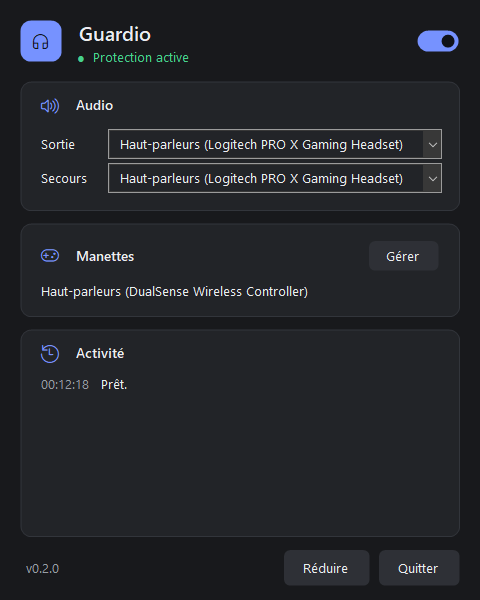
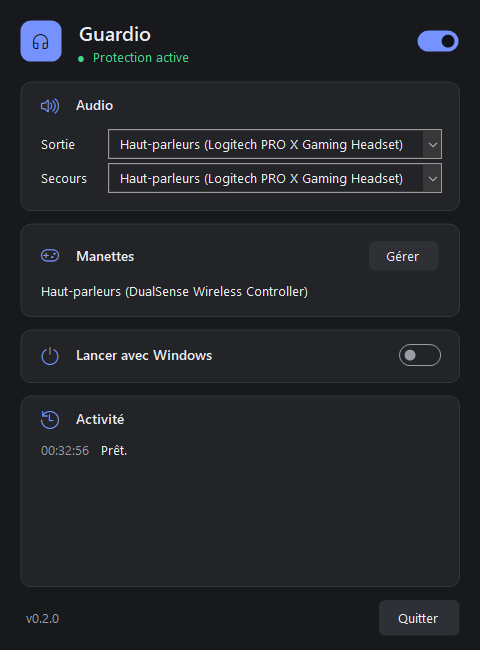
feat: start with Windows and keep running when the window is closed
- New "Lancer avec Windows" switch: a per-user Run entry starts Guardio
  hidden in the notification area (--tray). The entry follows the exe if
  the folder is moved.
- The close button now hides Guardio to the notification area (with a
  one-time hint); "Quitter" and the tray menu really exit. The redundant
  "Réduire" button is gone.
- The guard starts with the window handle so it also runs when hidden.
- Docs and screenshots updated.

diff --git a/src/Guardio/MainForm.cs b/src/Guardio/MainForm.cs
@@ -14,21 +14,22 @@ public sealed class MainForm : Form
     private readonly ActivityList journal = new();
     private readonly NotifyIcon tray = new() { Text = "Guardio", Visible = true };
     private readonly ToolStripMenuItem trayEnable = new("Protection active") { Checked = true, CheckOnClick = true };
+    private readonly ToggleSwitch autoStart = new() { Anchor = AnchorStyles.Right, AccessibleName = "Lancer avec Windows" };
     private readonly ToolTip tips = new();
     private readonly string dataDir;
     private GuardService? guard;
-    private bool refreshing;
+    private bool refreshing, startHidden, quitting, trayHintShown;
     private string shownSignature = "";
 
-    public MainForm(string dataDir)
+    public MainForm(string dataDir, bool startHidden = false)
     {
-        this.dataDir = dataDir;
+        this.dataDir = dataDir; this.startHidden = startHidden;
         SuspendLayout();
         AutoScaleDimensions = new(96F, 96F); AutoScaleMode = AutoScaleMode.Dpi;
         Text = "Guardio"; Font = new("Segoe UI", 9.75f);
         Icon = Icon.ExtractAssociatedIcon(Environment.ProcessPath!) ?? SystemIcons.Application;
         tray.Icon = Icon;
-        ClientSize = new(480, 600); MinimumSize = new(440, 540);
+        ClientSize = new(480, 650); MinimumSize = new(440, 600);
         StartPosition = FormStartPosition.CenterScreen;
 
         var root = new TableLayoutPanel { Dock = DockStyle.Fill, Padding = new(20, 18, 20, 14), ColumnCount = 1 };
@@ -36,6 +37,7 @@ public sealed class MainForm : Form
         root.Controls.Add(Header());
         root.Controls.Add(AudioCard());
         root.Controls.Add(ControllersCard());
+        root.Controls.Add(StartupCard());
         var activity = ActivityCard();
         root.Controls.Add(activity);
         root.Controls.Add(Footer());
@@ -53,13 +55,37 @@ public sealed class MainForm : Form
         menu.Items.Add(trayEnable);
         trayEnable.CheckedChanged += (_, _) => { if (!refreshing) enabled.Checked = trayEnable.Checked; };
         menu.Items.Add(new ToolStripSeparator());
-        menu.Items.Add("Quitter", null, (_, _) => Close()); tray.ContextMenuStrip = menu;
+        menu.Items.Add("Quitter", null, (_, _) => Quit()); tray.ContextMenuStrip = menu;
         Theme.Changed += OnThemeChanged;
-        HandleCreated += (_, _) => Theme.Apply(this);
-        Shown += (_, _) => StartGuard();
+        // The guard starts with the window handle, so it also runs when started hidden.
+        HandleCreated += (_, _) => { Theme.Apply(this); if (guard is null) StartGuard(); };
+        FormClosing += OnClosing;
         FormClosed += (_, _) => { Theme.Changed -= OnThemeChanged; tray.Visible = false; tray.Dispose(); guard?.Dispose(); };
         Resize += (_, _) => { if (WindowState == FormWindowState.Minimized) Hide(); };
     }
+
+    protected override void SetVisibleCore(bool value)
+    {
+        // Started with Windows: stay in the notification area until opened.
+        if (startHidden && value)
+        {
+            startHidden = false; value = false;
+            if (!IsHandleCreated) CreateHandle();
+        }
+        base.SetVisibleCore(value);
+    }
+
+    private void OnClosing(object? sender, FormClosingEventArgs e)
+    {
+        // The close button keeps protection running; "Quitter" really exits.
+        if (quitting || e.CloseReason != CloseReason.UserClosing) return;
+        e.Cancel = true; Hide();
+        if (trayHintShown) return;
+        trayHintShown = true;
+        tray.ShowBalloonTip(4000, "Guardio reste actif", "Clic droit sur l’icône puis Quitter pour l’arrêter.", ToolTipIcon.None);
+    }
+
+    private void Quit() { quitting = true; Close(); }
 
     private Control Header()
     {
@@ -97,6 +123,20 @@ public sealed class MainForm : Form
         return MakeCard(Theme.Gamepad, "Manettes", manage, controllers);
     }
 
+    private Control StartupCard()
+    {
+        try { AutoStart.Refresh(); autoStart.Checked = AutoStart.Enabled; }
+        catch (Exception ex) when (ex is UnauthorizedAccessException or System.Security.SecurityException or IOException) { autoStart.Enabled = false; }
+        autoStart.CheckedChanged += (_, _) =>
+        {
+            if (refreshing) return;
+            Run(() => AutoStart.Enabled = autoStart.Checked);
+            refreshing = true; autoStart.Checked = AutoStart.Enabled; refreshing = false;
+        };
+        tips.SetToolTip(autoStart, "Démarrer Guardio dans la zone de notification à l’ouverture de session.");
+        return MakeCard(Theme.Power, "Lancer avec Windows", autoStart, null);
+    }
+
     private Control ActivityCard()
     {
         var card = MakeCard(Theme.History, "Activité", null, journal);
@@ -106,29 +146,28 @@ public sealed class MainForm : Form
 
     private Control Footer()
     {
-        var footer = new TableLayoutPanel { Dock = DockStyle.Fill, AutoSize = true, ColumnCount = 3, Margin = new(0) };
-        footer.ColumnStyles.Add(new(SizeType.Percent, 100)); footer.ColumnStyles.Add(new(SizeType.AutoSize)); footer.ColumnStyles.Add(new(SizeType.AutoSize));
-        var hide = new FlatButton { Text = "Réduire", Margin = new(0, 0, 8, 0) };
+        var footer = new TableLayoutPanel { Dock = DockStyle.Fill, AutoSize = true, ColumnCount = 2, Margin = new(0) };
+        footer.ColumnStyles.Add(new(SizeType.Percent, 100)); footer.ColumnStyles.Add(new(SizeType.AutoSize));
         var quit = new FlatButton { Text = "Quitter", Margin = new(0) };
-        tips.SetToolTip(hide, "Continuer dans la zone de notification.");
-        hide.Click += (_, _) => Hide(); quit.Click += (_, _) => Close();
+        tips.SetToolTip(quit, "Arrêter Guardio. La croix le garde dans la zone de notification.");
+        quit.Click += (_, _) => Quit();
         footer.Controls.Add(new MutedLabel { Text = "v" + Program.Version, Anchor = AnchorStyles.Left }, 0, 0);
-        footer.Controls.Add(hide, 1, 0); footer.Controls.Add(quit, 2, 0);
+        footer.Controls.Add(quit, 1, 0);
         return footer;
     }
 
-    private static Card MakeCard(string glyph, string title, Control? action, Control body)
+    private static Card MakeCard(string glyph, string title, Control? action, Control? body)
     {
         var card = new Card { Dock = DockStyle.Fill, AutoSize = true, AutoSizeMode = AutoSizeMode.GrowAndShrink, BackColor = Theme.Current.Surface };
         var layout = new TableLayoutPanel { Dock = DockStyle.Fill, AutoSize = true, ColumnCount = 1, Margin = new(0) };
         layout.ColumnStyles.Add(new(SizeType.Percent, 100));
-        var head = new TableLayoutPanel { Dock = DockStyle.Fill, AutoSize = true, ColumnCount = 3, Margin = new(0, 0, 0, 6) };
+        var head = new TableLayoutPanel { Dock = DockStyle.Fill, AutoSize = true, ColumnCount = 3, Margin = new(0, 0, 0, body is null ? 0 : 6) };
         head.ColumnStyles.Add(new(SizeType.AutoSize)); head.ColumnStyles.Add(new(SizeType.Percent, 100)); head.ColumnStyles.Add(new(SizeType.AutoSize));
         head.Controls.Add(new Glyph(glyph) { Anchor = AnchorStyles.Left }, 0, 0);
         head.Controls.Add(new Label { Text = title, AutoSize = true, Font = new("Segoe UI Semibold", 10.5f), Anchor = AnchorStyles.Left, Margin = new(0) }, 1, 0);
         if (action is not null) head.Controls.Add(action, 2, 0);
         layout.Controls.Add(head, 0, 0);
-        layout.Controls.Add(body, 0, 1);
+        if (body is not null) layout.Controls.Add(body, 0, 1);
         layout.RowStyles.Add(new(SizeType.AutoSize)); layout.RowStyles.Add(new(SizeType.Percent, 100));
         card.Controls.Add(layout);
         return card;

diff --git a/src/Guardio/Program.cs b/src/Guardio/Program.cs
@@ -8,19 +8,26 @@ internal static class Program
     private static int Main(string[] args)
     {
         ApplicationConfiguration.Initialize();
+        // Windows startup launches Guardio straight into the notification area.
+        bool tray = args is [AutoStart.TrayArgument];
+        bool diagnostics = args.Length > 0 && !tray;
         try
         {
-            if (args.Length > 0) return Diagnostics.Run(args);
+            if (diagnostics) return Diagnostics.Run(args);
             // Same key as GardeAudio, so an older copy can't fight Guardio over the audio defaults.
             using var mutex = new Mutex(true, "Local\\GardeAudio.DualSense.v01", out bool first);
-            if (!first) { MessageBox.Show("Guardio est déjà ouvert dans la zone de notification.", "Guardio"); return 0; }
-            Application.Run(new MainForm(Path.Combine(AppContext.BaseDirectory, "donnees")));
+            if (!first)
+            {
+                if (!tray) MessageBox.Show("Guardio est déjà ouvert dans la zone de notification.", "Guardio");
+                return 0;
+            }
+            Application.Run(new MainForm(Path.Combine(AppContext.BaseDirectory, "donnees"), startHidden: tray));
             return 0;
         }
         catch (Exception ex)
         {
             File.WriteAllText(Path.Combine(AppContext.BaseDirectory, "erreur-demarrage.txt"), ex.ToString());
-            if (args.Length == 0) MessageBox.Show(ex.Message, "Guardio", MessageBoxButtons.OK, MessageBoxIcon.Error);
+            if (!diagnostics) MessageBox.Show(ex.Message, "Guardio", MessageBoxButtons.OK, MessageBoxIcon.Error);
             return 1;
         }
     }

diff --git a/src/Guardio/AutoStart.cs b/src/Guardio/AutoStart.cs
@@ -1,0 +1,34 @@
+using Microsoft.Win32;
+
+namespace Guardio;
+
+/// <summary>Per-user Windows "Run" entry: no installer or admin rights needed.</summary>
+internal static class AutoStart
+{
+    public const string TrayArgument = "--tray";
+    private const string KeyPath = @"Software\Microsoft\Windows\CurrentVersion\Run";
+    private const string ValueName = "Guardio";
+    private static string Command => $"\"{Environment.ProcessPath}\" {TrayArgument}";
+
+    public static bool Enabled
+    {
+        get
+        {
+            using var key = Registry.CurrentUser.OpenSubKey(KeyPath);
+            return key?.GetValue(ValueName) is string;
+        }
+        set
+        {
+            using var key = Registry.CurrentUser.CreateSubKey(KeyPath);
+            if (value) key.SetValue(ValueName, Command);
+            else key.DeleteValue(ValueName, throwOnMissingValue: false);
+        }
+    }
+
+    /// <summary>Points an existing entry at this copy, e.g. after the folder was moved.</summary>
+    public static void Refresh()
+    {
+        using var key = Registry.CurrentUser.OpenSubKey(KeyPath, writable: true);
+        if (key?.GetValue(ValueName) is string current && current != Command) key.SetValue(ValueName, Command);
+    }
+}

diff --git a/src/Guardio/Ui/Theme.cs b/src/Guardio/Ui/Theme.cs
@@ -47,7 +47,7 @@ internal static class Theme
         .Any(f => f.Name == "Segoe Fluent Icons") ? "Segoe Fluent Icons" : "Segoe MDL2 Assets";
     public static Font IconFont(float size) => new(IconFamily, size);
     public const string Headphones = "", Gamepad = "", Shield = "", Speaker = "",
-        History = "", Settings = "";
+        History = "", Settings = "", Power = "";
 
     public static GraphicsPath Rounded(RectangleF r, float radius)
     {

diff --git a/README.md b/README.md
@@ -24,7 +24,7 @@ Also available: a [smaller ZIP](https://github.com/Nagaraaa/Guardio/releases/dow
 
 New in 0.2.0: redesigned interface with light and dark themes, support for DualShock 4 and Xbox controllers, and manual controller selection.
 
-Extract it anywhere and run `Guardio.exe`. No installer and no admin rights. To uninstall, delete the folder.
+Extract it anywhere and run `Guardio.exe`. No installer and no admin rights. To uninstall, turn off **Lancer avec Windows**, quit, and delete the folder.
 
 Coming from GardeAudio? Quit it, then copy its `donnees/` folder next to `Guardio.exe` to keep your settings.
 
@@ -34,7 +34,8 @@ Coming from GardeAudio? Quit it, then copy its `donnees/` folder next to `Guardi
 - **Sortie**: the current Windows output. Choosing one here always wins, even the controller.
 - **Secours**: used if the previous output is gone.
 - **Manettes → Gérer**: choose which outputs count as controllers, if yours isn't detected automatically.
-- **Réduire** keeps Guardio running in the notification area.
+- **Lancer avec Windows** starts Guardio hidden in the notification area when you log in.
+- Closing the window keeps Guardio running in the notification area. **Quitter** (or right-click the tray icon) stops it.
 
 ## How it works
 
@@ -42,7 +43,7 @@ When a controller's audio output appears, Guardio watches the Windows default ou
 
 Controllers are recognized by name (DualSense, DualSense Edge, DualShock 4, Xbox controllers, "Gamepad"). Any other output can be marked manually.
 
-Guardio does not disable devices, install drivers, change microphones or volume, or use the network. Settings and a log are stored in `donnees/` next to the executable.
+Guardio does not disable devices, install drivers, change microphones or volume, or use the network. Its only system change is the optional startup entry in `HKCU\…\Run`. Settings and a log are stored in `donnees/` next to the executable.
 
 **Known limits:** a manual switch to the controller in Windows settings within those two seconds is also undone; use **Sortie** in Guardio instead. A brief sound cut can happen. Apps that target the controller directly are not rerouted. The output switch uses Windows' undocumented `PolicyConfig` interface.
 

diff --git a/docs/README.fr.md b/docs/README.fr.md
@@ -9,7 +9,7 @@ Quand on branche une manette en USB (DualSense, DualShock 4, Xbox…), Windows b
 1. Télécharger **[Guardio v0.2.0](https://github.com/Nagaraaa/Guardio/releases/download/v0.2.0/Guardio-v0.2.0-windows-x64.zip)**. Ce ZIP contient .NET : rien d'autre à installer.
 2. L'extraire où on veut et lancer `Guardio.exe`, sans droits administrateur.
 
-Pour désinstaller, quitter Guardio et supprimer son dossier.
+Pour désinstaller, désactiver **Lancer avec Windows**, quitter Guardio et supprimer son dossier.
 
 Tu viens de GardeAudio ? Quitte-le, puis copie son dossier `donnees/` à côté de `Guardio.exe` pour garder tes réglages.
 
@@ -19,7 +19,8 @@ Tu viens de GardeAudio ? Quitte-le, puis copie son dossier `donnees/` à côté 
 - **Sortie** : la sortie audio actuelle. Un choix fait ici est toujours respecté, même la manette.
 - **Secours** : sortie utilisée si la précédente a disparu.
 - **Manettes → Gérer** : choisir quelles sorties sont des manettes si la tienne n'est pas reconnue.
-- **Réduire** : Guardio continue dans la zone de notification.
+- **Lancer avec Windows** : Guardio démarre caché dans la zone de notification à l'ouverture de session.
+- Fermer la fenêtre laisse Guardio actif dans la zone de notification. **Quitter** (ou clic droit sur l'icône) l'arrête.
 
 ## Bon à savoir
 
